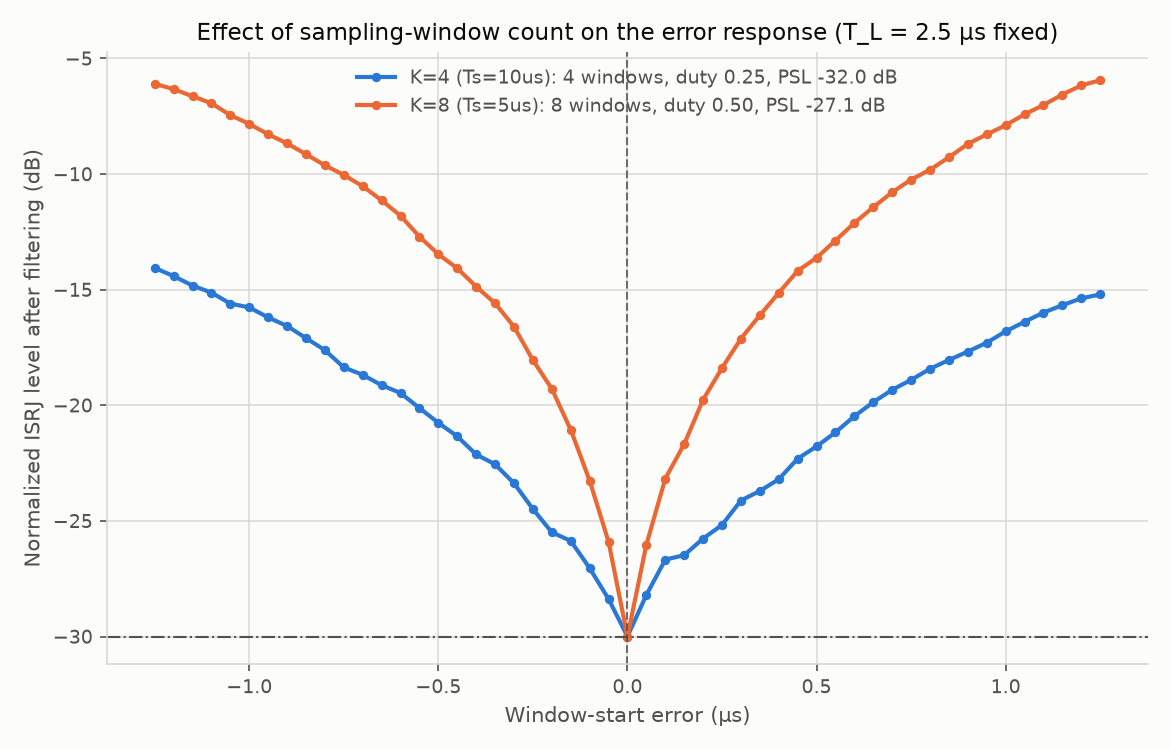
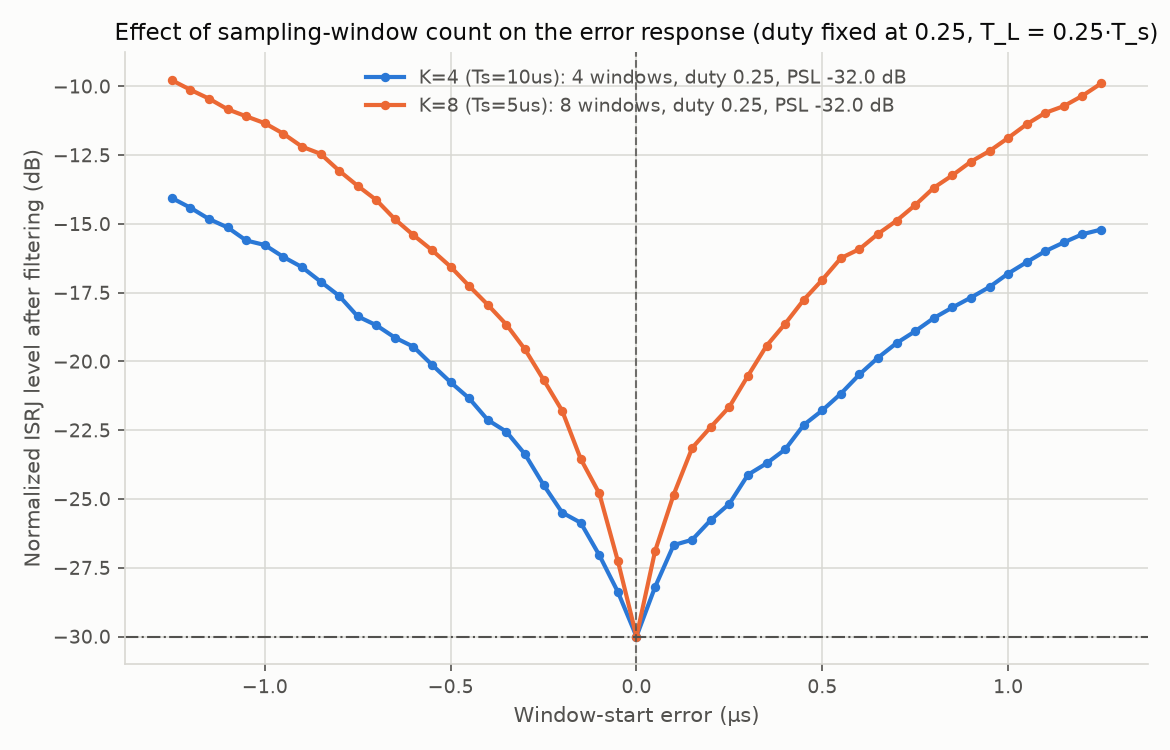
重做窗口数对比：固定占空比 0.25（T_L = 0.25*T_s 随 T_s 缩放）
- 旧结果作废删除（上一版固定 T_L 导致占空比被动 0.25 -> 0.50，PSL 差 4.9 dB 是占空比的账）
- 新结果：K 4->8 陡度约 1.7 倍（±0.05μs 1.80 -> 3.10 dB），PSL 几乎不动（-31.99 -> -32.05 dB），
  损失 -2.66 -> -3.00 dB
- 灵敏度机理.md §2 表格与结论同步更正（含混淆说明）

diff --git a/参数搜索/scripts/run_window_count_compare.py b/参数搜索/scripts/run_window_count_compare.py
@@ -4,8 +4,9 @@
 每单位误差的位移样本数 = 2·ε·fs·K（K = 码内窗口数）。K 越大，同样误差扰动越多
 样本 ⇒ V 越陡。本实验只改 T_s（窗口数），其余不变：
 
-    配置 A（现状）：T_s = 10 μs → 200 点/周期 → K = 4，占空比 0.25
-    配置 B（本次）：T_s =  5 μs → 100 点/周期 → K = 8，占空比 0.50
+    配置 A（现状）：T_s = 10 μs → 200 点/周期 → K = 4，T_L = 2.50 μs
+    配置 B（本次）：T_s =  5 μs → 100 点/周期 → K = 8，T_L = 1.25 μs
+    两配置**占空比固定 0.25**（T_L = 0.25·T_s 随周期同步缩放），t_0 = T_s/4。
 
 两配置的 T_L = 2.5 μs（50 点）、t_0 = T_s/4（A: 2.5 μs、B: 1.25 μs，相对位置相同，
 保证窗口不跨周期：t_0 + T_L ≤ T_s）。扫描 ε ∈ ±1.25 μs（B 的对称可用范围），
@@ -41,7 +42,7 @@ from isrj_joint_design.matrices import cross_correlation  # noqa: E402
 from isrj_joint_design.params import GlobalParams, generate_isrj_sampling_function  # noqa: E402
 
 N = 800
-TAU_US = 2.5                       # 截取长度（两配置相同）
+DUTY = 0.25                        # 固定占空比：T_L = DUTY·T_s，随 T_s 同步缩放
 CONFIGS = {                        # 名称: T_s [μs]
     "K=4 (Ts=10us)": 10.0,
     "K=8 (Ts=5us)": 5.0,
@@ -56,7 +57,7 @@ GRID = "#d8d7d2"
 
 
 def params_for(t_s_us: float, t0_us: float) -> GlobalParams:
-    return GlobalParams(N=N, tau=TAU_US * 1e-6, T_s=t_s_us * 1e-6,
+    return GlobalParams(N=N, tau=DUTY * t_s_us * 1e-6, T_s=t_s_us * 1e-6,
                         tau_offset=t0_us * 1e-6, seed=0)
 
 
@@ -116,7 +117,7 @@ def main() -> None:
         idx = {e: int(np.argmin(np.abs(ERR - e))) for e in (0.05, 0.1, 0.25, 0.5, 1.0)}
         rows.append({
             "config": name, "ts_us": ts, "windows": int(round(N / (ts * 20))),
-            "duty": TAU_US / ts, "t0_us": ts / 4.0,
+            "duty": DUTY, "tau_us": DUTY * ts, "t0_us": ts / 4.0,
             "psl_db": m["psl_db"], "gain_loss_db": m["processing_gain_loss_db"],
             "valley_db": float(z[i0]),
             "z_0p05": float(z[idx[0.05]]), "rise_0p05": float(z[idx[0.05]] - z[i0]),
@@ -143,7 +144,7 @@ def main() -> None:
     ax.set_xlabel("Window-start error (μs)")
     ax.set_ylabel("Normalized ISRJ level after filtering (dB)")
     ax.set_title("Effect of sampling-window count on the error response "
-                 "(T_L = 2.5 μs fixed)", fontsize=11)
+                 "(duty fixed at 0.25, T_L = 0.25·T_s)", fontsize=11)
     ax.legend(frameon=False, fontsize=9, labelcolor=TEXT_SECONDARY)
     _style(ax)
     fig.tight_layout()
@@ -156,8 +157,9 @@ def main() -> None:
          "curves": {k: v.tolist() for k, v in curves.items()},
          "summary": rows}, indent=2, ensure_ascii=False), encoding="utf-8")
 
-    lines = ["# 码内采样窗口数对比（T_L = 2.5 μs 不变，只改 T_s）", "",
-             f"扫描 ε ∈ ±1.25 μs（步长 0.05 μs = 1 个采样点）；t_0 基线 = T_s/4。", "",
+    lines = ["# 码内采样窗口数对比（占空比固定 0.25，T_L = 0.25·T_s 随 T_s 缩放）", "",
+             f"扫描 ε ∈ ±1.25 μs（步长 0.05 μs = 1 个采样点）；t_0 基线 = T_s/4。"
+             f"K=4：T_s = 10 μs / T_L = 2.5 μs；K=8：T_s = 5 μs / T_L = 1.25 μs。", "",
              "| 配置 | 窗口数 | 占空比 | PSL (dB) | 损失 (dB) | 谷底 (dB) | ±0.05μs | ±0.25μs | ±0.5μs | ±1.0μs |",
              "|---|---|---|---|---|---|---|---|---|---|"]
     for r in rows:

diff --git a/参数搜索/docs/灵敏度机理.md b/参数搜索/docs/灵敏度机理.md
@@ -37,20 +37,26 @@ h^H(x ⊙ j_actual) = b_min + Σ_{n ∈ 位移样本} ± conj(h[n])·x[n]
 每单位参数误差的位移样本数 = 2 ×（误差点数）× K ，   K = N / (T_s·fs) = 码内窗口数
 ```
 
-**实测**（`T_L = 2.5 μs` 固定，只改 `T_s`；`t_0` 基线 = `T_s/4`；扫描 ±1.25 μs，步长 0.05 μs = 1 点）：
+**实测**（**占空比固定 0.25**，`T_L = 0.25·T_s` 随 `T_s` 缩放；`t_0` 基线 = `T_s/4`；扫描 ±1.25 μs，步长 0.05 μs = 1 点）：
 
-| 指标 | K=4（T_s=10 μs，占空比 0.25） | **K=8（T_s=5 μs，占空比 0.50）** |
+| 指标 | K=4（T_s=10 μs、T_L=2.5 μs） | **K=8（T_s=5 μs、T_L=1.25 μs）** |
 |---|---|---|
+| 占空比 | 0.25 | 0.25（固定不变） |
 | 谷底 | −30.00 dB | −30.00 dB（约束钉死） |
-| ±0.05 μs 抬升 | 1.80 dB | **3.97 dB** |
-| ±0.25 μs 抬升 | 4.82 dB | **11.61 dB** |
-| ±0.5 μs 抬升 | 8.22 dB | **16.38 dB** |
-| ±1.0 μs 抬升 | 13.19 dB | **22.11 dB** |
-| PSL | −31.99 dB | −27.09 dB |
-| 处理增益损失 | −2.66 dB | −4.01 dB |
-| 设计耗时 | 50.8 s | 68.1 s |
+| ±0.05 μs 抬升 | 1.80 dB | **3.10 dB** |
+| ±0.25 μs 抬升 | 4.82 dB | **8.35 dB** |
+| ±0.5 μs 抬升 | 8.22 dB | **12.97 dB** |
+| ±1.0 μs 抬升 | 13.19 dB | **18.12 dB** |
+| PSL | −31.99 dB | **−32.05 dB（几乎不变）** |
+| 处理增益损失 | −2.66 dB | −3.00 dB |
+| 设计耗时 | 49.7 s | 44.1 s |
 
-**结论：K 翻倍 ⇒ 陡度约翻倍（dB 上），代价是 PSL 差 4.9 dB、损失差 1.35 dB。**
+**结论：K 翻倍 ⇒ 陡度约 1.7 倍（小误差处 1.80 → 3.10 dB），而 PSL 几乎不动。**
+
+⚠ **修正一条早先的结论**：上一版实验固定 `T_L = 2.5 μs`（于是 K=8 时占空比被动地从 0.25 涨到 0.50），
+得到"陡度翻倍但 PSL 差 4.9 dB"。**占空比固定后重测，那 4.9 dB 的 PSL 代价来自占空比翻倍，不是窗口数增多的代价**
+——窗口数本身几乎不花 PSL。教训：比较实验必须控制住派生量（此处 `d = T_L/T_s`）。
+
 产物：`参数搜索/结果/采样周期对比/`（脚本 `run_window_count_compare.py`）。
 
 ---

diff --git a/参数搜索/结果/采样周期对比/结果表.md b/参数搜索/结果/采样周期对比/结果表.md
@@ -1,10 +1,10 @@
-# 码内采样窗口数对比（T_L = 2.5 μs 不变，只改 T_s）
+# 码内采样窗口数对比（占空比固定 0.25，T_L = 0.25·T_s 随 T_s 缩放）
 
-扫描 ε ∈ ±1.25 μs（步长 0.05 μs = 1 个采样点）；t_0 基线 = T_s/4。
+扫描 ε ∈ ±1.25 μs（步长 0.05 μs = 1 个采样点）；t_0 基线 = T_s/4。K=4：T_s = 10 μs / T_L = 2.5 μs；K=8：T_s = 5 μs / T_L = 1.25 μs。
 
 | 配置 | 窗口数 | 占空比 | PSL (dB) | 损失 (dB) | 谷底 (dB) | ±0.05μs | ±0.25μs | ±0.5μs | ±1.0μs |
 |---|---|---|---|---|---|---|---|---|---|
 | K=4 (Ts=10us) | 4 | 0.25 | -31.99 | -2.66 | -30.00 | 1.80 | 4.82 | 8.22 | 13.19 |
-| K=8 (Ts=5us) | 8 | 0.50 | -27.09 | -4.01 | -30.00 | 3.97 | 11.61 | 16.38 | 22.11 |
+| K=8 (Ts=5us) | 8 | 0.25 | -32.05 | -3.00 | -30.00 | 3.10 | 8.35 | 12.97 | 18.12 |
 
 （表内后四列为相对各自谷底的**抬升量**，dB，越大越尖。）
